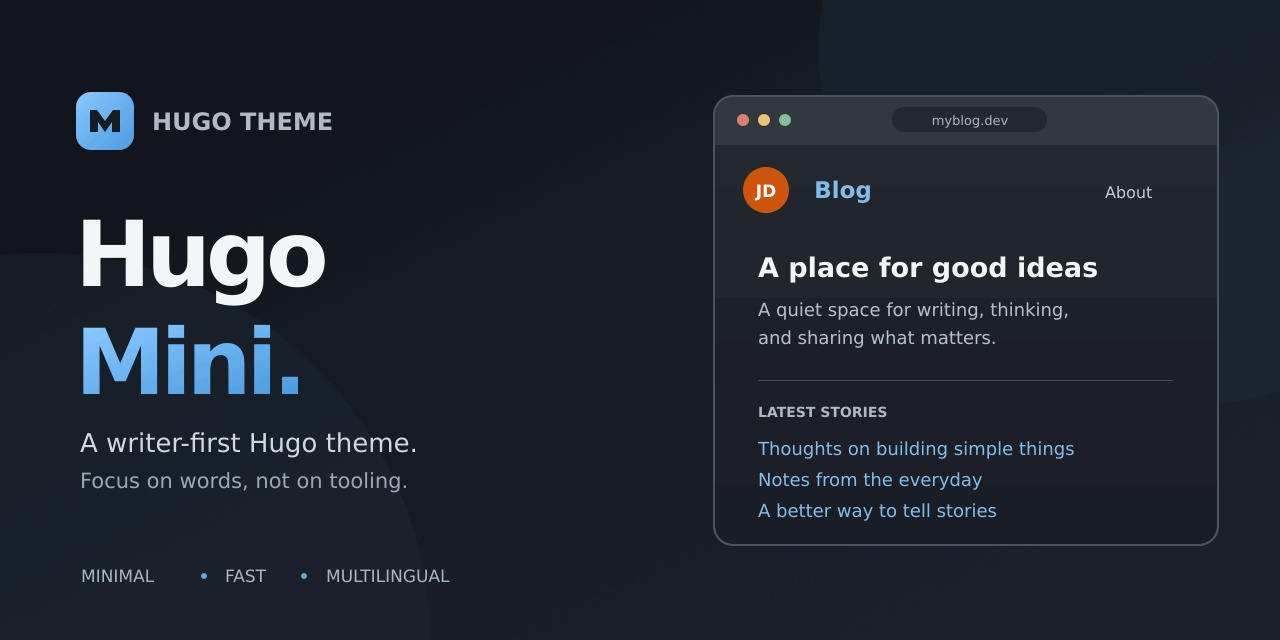
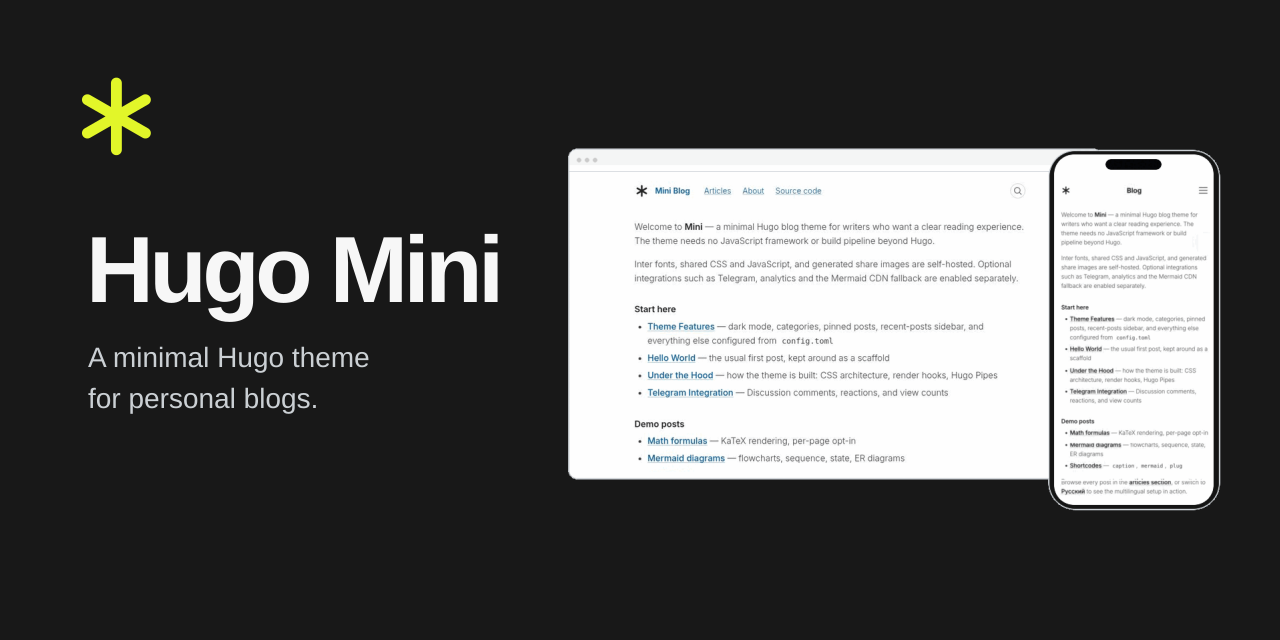
Refresh social previews and correct AI language badge (#17)

diff --git a/CHANGELOG.md b/CHANGELOG.md
@@ -15,6 +15,8 @@ Format follows [Keep a Changelog](https://keepachangelog.com/en/1.0.0/); this pr
 - Add a bilingual typography guide with rule examples, protected content and opt-outs.
 
 ### Changed
+- Refresh GitHub and Vercel preview images with the new asterisk branding, responsive demo, and visible search control.
+- Mark English as the AI-translated language in the example site and test the footer indicator in both languages.
 - Refresh the bilingual README animation with the current asterisk logo, desktop search shortcut, mobile search menu, and both color schemes.
 - Focus both README translations on a minimal personal blog for writers, with clear benefits and a short path to the first post; document the search shortcut in the configuration guide.
 - Keep balanced wrapping for page titles while restoring natural line breaks in article section headings through the shared Beauty.css foundation.

diff --git a/docs/configuration.md b/docs/configuration.md
@@ -51,6 +51,8 @@ All parameters are optional unless your site content depends on them.
 
 Social links live under `[params.social]`: `telegram`, `linkedin`, `github`, and `email`. Schema.org author data lives under `[params.author]`, for example `jobTitle`.
 
+Set `aiTranslatedLang = "en"` when the original articles are in Russian and their English versions are AI-translated. The sparkle appears next to the English option, not the Russian one; the two-language switcher shows only the other language.
+
 Set `backToTop = false` in a page's front matter to disable the control on that page, or under site `[params]` to disable it throughout the site. A page value overrides the site setting.
 
 Set `typography = false` to disable the theme's additional typography pass,
